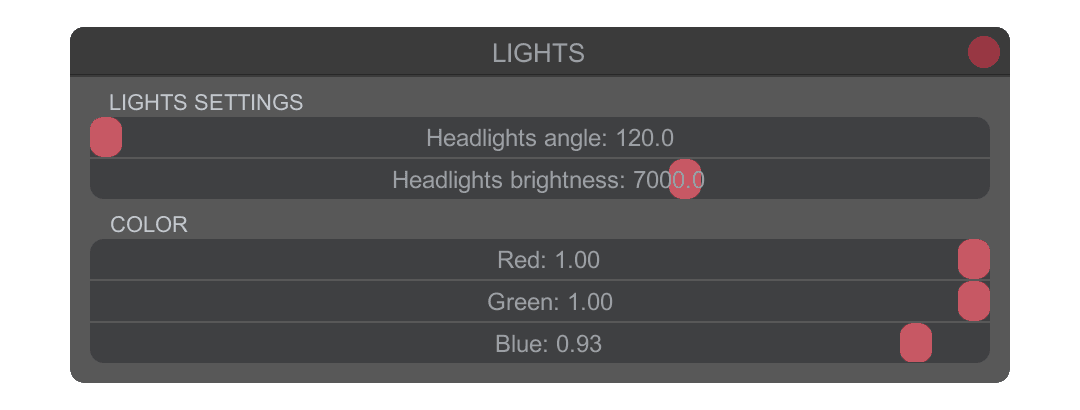
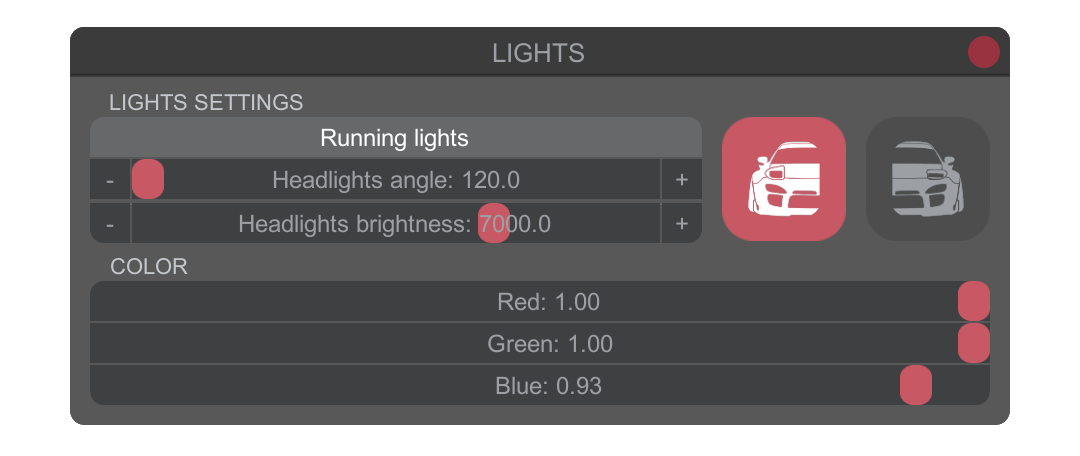
readme update

Changed region(s): [[0.0611, 0.0585, 0.9472, 0.878], [0.825, 0.878, 0.8861, 0.9073]]

diff --git a/Help/Support/Guide.md b/Help/Support/Guide.md
@@ -13,7 +13,7 @@
 
 > [License plates](#license-plates)
 
-> [Weather](#weather)
+> [Graphics](#graphics)
 
 > [Players](#players)
 
@@ -62,6 +62,10 @@ And ability to manage player's [collisions](#players).
 ## Lights
 ![lights](../../Images/icons/headlights.png)  
 In this tab you can adjust settings of your headlights such as horizontal angle (affects vertical as well), brightness and the colors of the beam.
+
+Also you have an option for daylight running lights which hide the beams and toggle pop-ups in **fully open** and **sleepy** modes.
+
+P.S. Pop-up headlights don't work on AE86 due to the model issue.
 ![lights_tut](../../Images/lights_settings.png)
 #
 ## Hazards
@@ -79,15 +83,23 @@ Color settings, brightness and lighting mode for your underglow.
 In license plates settings you can add plates for front and rear of the car, adjust their positions, change the format and put your own text on it.
 ![plates_tut](../../Images/license_plates.png)
 #
-## Weather
-![weather](../../Images/icons/weather.png)  
-In the weather tab you can adjust in-game lighting, enable the fog and use custom skyboxes.
+## Graphics
+![graphics](../../Images/icons/weather.png)  
+In the graphics tab you can adjust in-game lighting, enable the fog and use custom skyboxes.
 
-![weather_tut](../../Images/weather_settings.png)
+General settings enable you to toggle `HD shadows` and `Realtime reflections`.  
+Realtime reflections have 2 quality options: **Low** only relfects skybox and the map while **Medium** reflects cars and shadows as well.  
+![graphics_general](../../Images/graphics_general.png)
+
+![graphics_sun](../../Images/graphics_sun.png)
+
+![graphics_sky](../../Images/graphics_sky.png)
 
 To load your own skyboxes you need to have them in the following formats: 
 
 ![skybox_tut](/Images/tut_skyboxes.png)
+
+![graphics_fog](../../Images/graphics_fog.png)
 
 **For cubemaps:**
 >**nx = +x  
@@ -221,9 +233,6 @@ From the modules tab you can enable and disable some of the mod's features.
 ![settings_modules](../../Images/settings_modules.png)  
 In the game settings you have some *quality of life* features as well as toggles for synchronization of different mod features between kino users (on by defaul).
 ![settings_game](../../Images/settings_game.png)
-Graphics settings enable you to toggle `HD shadows` and `Realtime reflections`.  
-Realtime reflections have 2 quality options: **Low** only relfects skybox and the map while **Medium** reflects cars and shadows as well.  
-![settings_graphics](/Images/settings_graphics.png)
 #
 ## Keybinds
 ![keybinds](../../Images/icons/keybind.png)  
